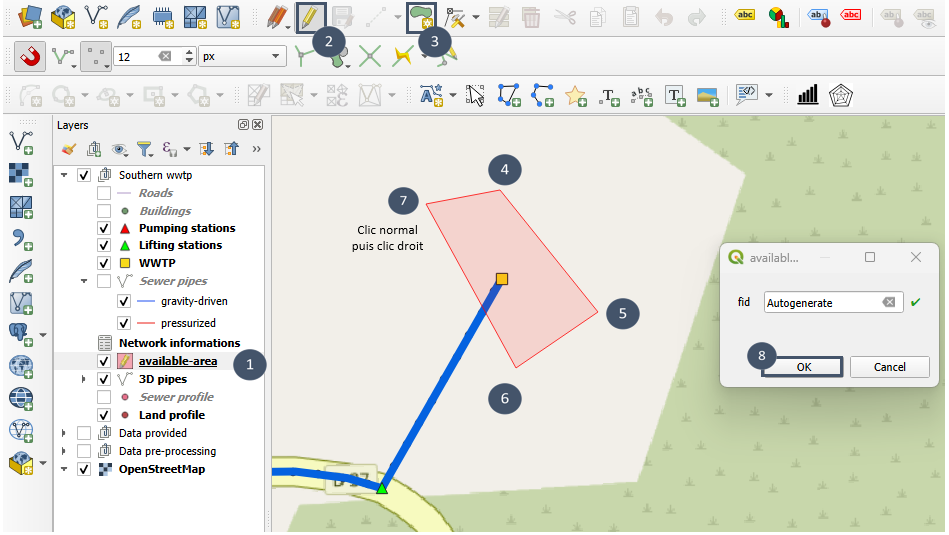
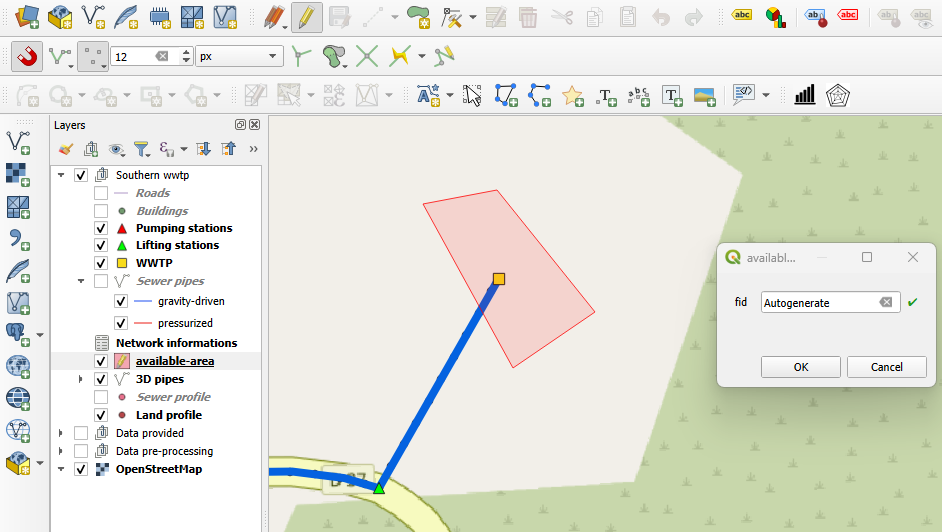
change images and adjust text to upgrade step 2 section of creation of a scenario (tutorial)

diff --git a/docs/petite_anse.rst b/docs/petite_anse.rst
@@ -532,9 +532,23 @@ Pour explorer le pré-dimensionnement proposé par le module ``Réseau``, vous p
 
 Étape 2 : Pré-dimensionner la ou les STEU (module ``Procédés``)
 ^^^^^^^^^^^^^^^^^^^^^^^^^^^^^^^^^^^^^^^^^^^^^^^^^^^^^^^^^^^^^^^
+
+**1. Ajuster les concentrations en entrée de STEU dans la couche** ``STEU``
+
+Parmi les attributs de la couche ``STEU`` en sortie de module ``Réseau`` se trouvent les concentrations
+d'entrée pour différents polluants. Pour cet exemple, les valeurs pré-remplies par défaut seront conservées, soient :
+
+     * MES : 288 mg/L
+     * DBO₅ : 265 mg/L 
+     * NTK :  67 mg/L 
+     * DCO :  646 mg/L
+     * N-NO₃ : 3 mg/L
+     * PT : 9,4 mg/L
+     * e.coli : 0 UFC/100mL
+
 .. _specify-C:
 
-**1. Renseigner les contraintes de rejet dans la couche** ``STEU``
+**2. Renseigner les contraintes de rejet dans la couche** ``STEU``
 
 Les niveaux de rejet à respecter dans le cas d'une station au Sud de la zone sont les suivants :
 
@@ -556,7 +570,7 @@ Les niveaux de rejet à respecter dans le cas d'une station au Sud de la zone so
 
 .. _define-surface:
 
-**2. Délimitation de la surface disponible** (facultatif)
+**3. Délimitation de la surface disponible** (facultatif)
 
 * Créer une nouvelle couche (.gpkg ou .shp) de type *polygone*.
 
@@ -576,7 +590,7 @@ Les niveaux de rejet à respecter dans le cas d'une station au Sud de la zone so
 .. image:: _static/save.png
      :width: 196
 
-**3. Utilisation du module** ``Procédés``
+**4. Utilisation du module** ``Procédés``
 
 * Cherche ``elan`` dans la *Boîte à outils de traitements* et sélectionner ``Procédés`` (bulles 1 et 2).
 
@@ -584,17 +598,17 @@ Les niveaux de rejet à respecter dans le cas d'une station au Sud de la zone so
 
 * Indiquer la couche ``STEU`` dont vous avez renseigné les attributs (bulle 4) et la couche ``surface-dispo`` que vous venez de créer (bulle 5).
 
-.. image:: _static/ex-procedes.png
-     :width: 700
+* Vérifier que les champs identifiés pour les coordonnées GPS et le débit journalier sont corrects. 
 
-* Vérifier que les champs identifiés pour les niveaux de rejets et le débit journalier sont corrects.
+.. note::
+     Vous pouvez aussi vérifier pour les champs de types concentration d'entrée et niveau de rejet en dépliant *Paramètres avancés*.
 
 * Indiquer un nom et un emplacement pour l'enregistrement du fichier de sortie (bulle 6), puis exécuter (bulle 7).
 
-.. image:: _static/ex-procedes-suite.png
+.. image:: _static/ex-procedes.png
      :width: 576
 
-**4. Consultation des caractéristiques des filières de traitement pré-dimensionnées**
+**5. Consultation des caractéristiques des filières de traitement pré-dimensionnées**
 
 Après exécution du module, vous obtenez un visuel de ce type (couche *point*) :
 
